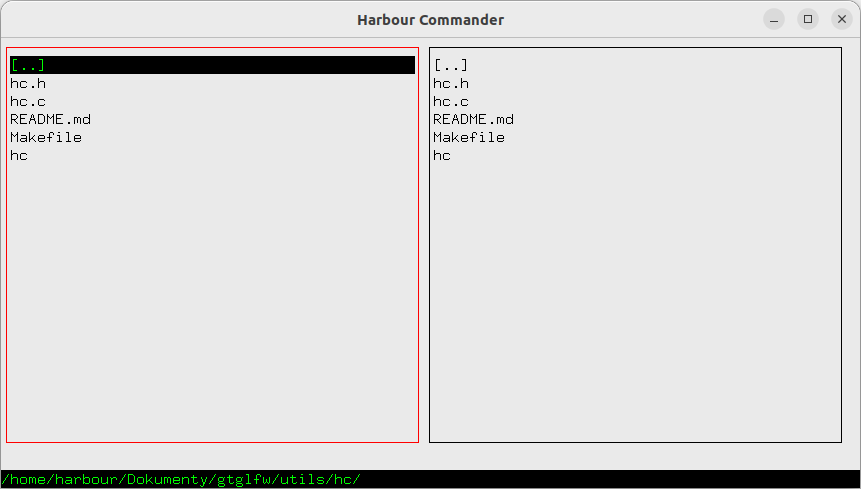
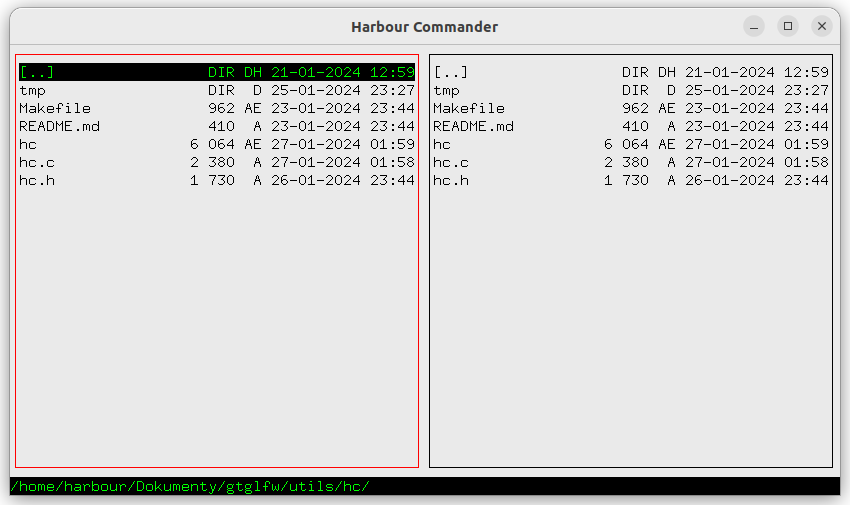
Update file manager

Changed region(s): [[0.0, 0.0, 1.0, 1.0]]

diff --git a/utils/hc/hc.c b/utils/hc/hc.c
@@ -251,9 +251,11 @@ static void DrawPanel( Panel *pPanel )
       if( i < pPanel->nFilesCount )
       {
          gtDispOutAt( pPanel->col + 1, row,
-            gtPadR( PaddedString( longestName, longestSize,
+            gtPadR( PaddedString( pPanel, longestName, longestSize,
                pPanel->pFiles[ i ].name,
                pPanel->pFiles[ i ].size,
+               pPanel->pFiles[ i ].date,
+               pPanel->pFiles[ i ].time,
                pPanel->pFiles[ i ].attr ), pPanel->maxCol - 2 ),
             IIF( activePanel == pPanel && i == pPanel->rowBar + pPanel->rowNo, "000000/00FF00", "EAEAEA/000000" ) );
          ++i;
@@ -265,34 +267,49 @@ static void DrawPanel( Panel *pPanel )
    }
 }
 
-static const char *PaddedString( int longestName, int longestSize, const char *name, const char *size, const char *attr )
+static const char *PaddedString( Panel *pPanel, int longestName, int longestSize, const char *name, const char *size, const char *date, const char *time, const char *attr )
 {
-   static char fileName[ 512 ];
-   static char fileSize[ 20 ];
+   static char formattedLine[ 512 ];
+   char fileName[ longestName + 1 ];
+   char fileSize[ longestSize + 4 + 1 ];
+   char fileDate[ 11 ];
+   char fileTime[ 6 ];
+   char fileAttr[ 4 ];
 
    if( strcmp( name, ".." ) == 0 )
    {
-      const char *tempStr = gtPadR( gtAddStr( "[", name, "]", NULL ), longestName );
-      SafeStrCopy( fileName, tempStr, sizeof( fileName ) );
+      SafeStrCopy( fileName, gtPadR( gtAddStr( "[", name, "]", NULL ), longestName ), sizeof( fileName ) );
    }
    else
    {
-      const char *tempStr = gtPadR( name, longestName );
-      SafeStrCopy( fileName, tempStr, sizeof( fileName ) );
+      SafeStrCopy( fileName, gtPadR( name, longestName ), sizeof( fileName ) );
    }
 
-   if( strchr(attr, 'D' ) != NULL )
+   if( strchr( attr, 'D' ) != NULL )
    {
-      const char *tempStr = gtPadL( "DIR", longestSize );
-      SafeStrCopy( fileSize, tempStr, sizeof( fileSize ) );
+      SafeStrCopy( fileSize, gtPadL( "DIR", longestSize ), sizeof( fileSize ) );
    }
    else
    {
-      const char *tempStr = gtPadL( size, longestSize );
-      SafeStrCopy( fileSize, tempStr, sizeof( fileSize ) );
+      SafeStrCopy( fileSize, gtPadL( gtStrFormat( size, "9 999" ), longestSize ), sizeof( fileSize ) );
    }
 
-   return gtAddStr( fileName, "   ", fileSize, NULL );
+   SafeStrCopy( fileAttr, gtPadL( attr, 3 ), sizeof( fileAttr ) );
+
+   SafeStrCopy( fileSize + strlen( fileSize ), fileAttr, sizeof( fileSize ) - strlen( fileSize ) );
+
+   SafeStrCopy( fileDate, gtPadR( date, 10 ), sizeof( fileDate ) );
+
+   SafeStrCopy( fileTime, gtPadR( time, 5 ), sizeof( fileTime ) );
+
+   // Adding the appropriate number of spaces between fileName and fileSize
+   int spacesNeeded = pPanel->maxCol - strlen( fileName ) - strlen( fileSize ) - strlen( fileDate ) - strlen( fileTime ) - 4; // - 4for margins
+   if( spacesNeeded < 0 ) spacesNeeded = 0;
+
+   // Combining everything in one sequence
+   snprintf( formattedLine, sizeof( formattedLine ), "%s%*s%s %s %s", fileName, spacesNeeded, "", fileSize, fileDate, fileTime );
+
+   return formattedLine;
 }
 
 void SafeStrCopy( char *dest, const char *src, size_t destSize )

diff --git a/utils/hc/hc.h b/utils/hc/hc.h
@@ -37,7 +37,7 @@ static void   UpdatePanelFetchList( Panel *pPanel, const char *newDir );
 static void   Autosize( App *pApp );
 static void   Resize( Panel *pPanel, int col, int row, int maxCol, int maxRow );
 static void   DrawPanel( Panel *pPanel );
-static const char *PaddedString( int longestName, int longestSize, const char *name, const char *size, const char *attr );
+static const char *PaddedString( Panel *pPanel, int longestName, int longestSize, const char *name, const char *size, const char *date, const char *time, const char *attr );
 static void   SafeStrCopy( char *dest, const char *src, size_t destSize );
 static void   DrawComdLine( App *pApp, Panel *pPanel );
 static void   ChangeDir( Panel *pPanel );
